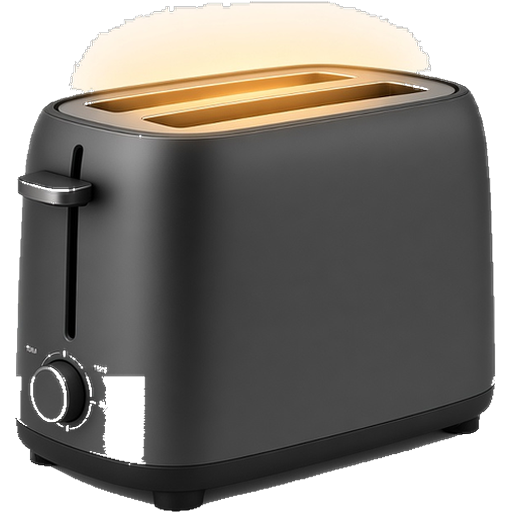
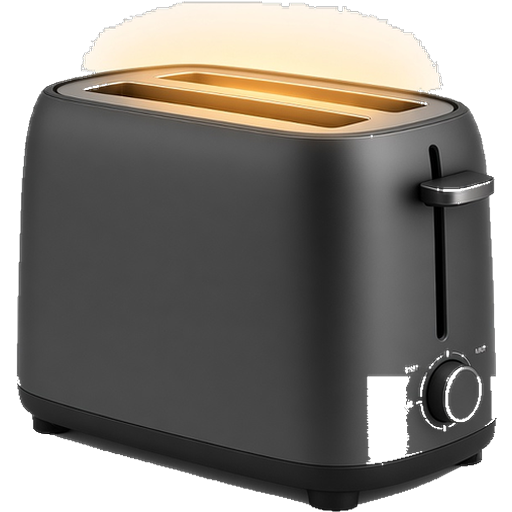
Credit Mark Raphael Sto. Domingo and use com.mrkrphl.buddy.
Public credit is the full name; mrkrphl stays only for the package and GitHub host.

diff --git a/site/privacy.html b/site/privacy.html
@@ -17,7 +17,7 @@
         <h2>Overview</h2>
         <p>
           Buddy (“we”, “our”, or “the app”) is a photo-first calorie companion for iPhone,
-          by mrkrphl. This policy describes what the app handles. It matches the
+          by Mark Raphael Sto. Domingo. This policy describes what the app handles. It matches the
           App Store privacy label: <strong>Data Not Collected</strong>.
         </p>
       </section>

diff --git a/Buddy/Views/SettingsView.swift b/Buddy/Views/SettingsView.swift
@@ -66,7 +66,7 @@ struct SettingsView: View {
                         Link("Support", destination: BuddyLegal.support)
                         Link("Terms", destination: BuddyLegal.terms)
                     } footer: {
-                        Text("by mrkrphl")
+                        Text("Mark Raphael Sto. Domingo")
                     }
                 }
                 .scrollContentBackground(.hidden)

diff --git a/Buddy/Core/PixelRenderer.swift b/Buddy/Core/PixelRenderer.swift
@@ -1,7 +1,7 @@
 import CoreGraphics
 import UIKit
 
-/// Night Folio / Buddy sprite palette (code-only pixel art).
+/// Buddy sprite palette (code-only pixel art).
 /// Indices match sprite matrices in `BuddyGhostPixels`.
 enum BuddyPalette {
     /// 0 transparent · 1 outline · 2 bone · 3 bone light · 4 dim · 5 needle · 6 carrot · 7 leaf · 8 eye

diff --git a/Buddy/Views/RootView.swift b/Buddy/Views/RootView.swift
@@ -134,7 +134,7 @@ struct OnboardingWelcomeView: View {
             .padding(.horizontal, 24)
             .padding(.bottom, 36)
 
-            Text("by mrkrphl")
+            Text("Mark Raphael Sto. Domingo")
                 .font(.caption2)
                 .foregroundStyle(BuddyTheme.dim.opacity(0.7))
                 .padding(.bottom, 12)

diff --git a/site/index.html b/site/index.html
@@ -63,7 +63,7 @@
     </main>
 
     <footer class="site-footer">
-      <span>© mrkrphl</span>
+      <span>© Mark Raphael Sto. Domingo</span>
       <a href="privacy.html">Privacy</a>
       <a href="support.html">Support</a>
       <a href="terms.html">Terms</a>

diff --git a/design/proposals/PROPOSALS.md b/design/proposals/PROPOSALS.md
@@ -5,7 +5,8 @@ Three directions. Same promise, tokens, and tagline. Different marks.
 **Promise:** photo-first food companion — see what you eat.  
 **Tagline:** See what you eat. · **Loop:** Plan & Log  
 **Tokens:** field `#0B0B0C` · bone `#E6E2DA` · dim `#8A8580` · needle `#E2452B`  
-**Studio:** Made by Night Folio (door stays off App Icon)
+**Maker:** Mark Raphael Sto. Domingo  
+**Package:** `com.mrkrphl` (door stays off App Icon)
 
 | | A · Companion | B · Aperture | C · Monogram |
 |---|---|---|---|
@@ -20,7 +21,7 @@ Three directions. Same promise, tokens, and tagline. Different marks.
 
 - Night canvas, not cream  
 - Needle only as accent  
-- No Wick flame, Kindling watercolor, Night Folio door  
+- No Wick flame, Kindling watercolor, or studio door mark on the App Icon  
 - No purple AI glow  
 
 ## Pick

diff --git a/brand.md b/brand.md
@@ -2,7 +2,7 @@
 
 **Status:** LOCKED 2026-09-23 (ghost marshmallow · Plan & Log)  
 **Product:** Buddy  
-**Studio:** Made by Night Folio (door mark stays off the App Icon)
+**Maker:** Mark Raphael Sto. Domingo (package: `com.mrkrphl`)
 
 **Boards**
 - **Canon mascot / App Icon:** [design/buddy-mascot-ghost-marshmallow.png](./design/buddy-mascot-ghost-marshmallow.png)
@@ -46,7 +46,7 @@ A photo-first **food-energy companion** — calories as quiet scoreboard, Buddy 
 Not Halloween scare. Not a living animal critter. He’s a ghost on purpose.
 **Canon face ref:** `design/buddy-tagline-whats-up-bud.png` / brandkit “What’s up, bud?” panel.
 
-**Not:** Night Folio door, Wick flame, Kindling watercolor, realistic 3D mascot.
+**Not:** studio door mark, Wick flame, Kindling watercolor, realistic 3D mascot.
 
 ## Tokens
 

diff --git a/CONTEXT.md b/CONTEXT.md
@@ -16,7 +16,7 @@
 | Win condition | **Delivery** (UX, onboarding, interactions) + companion that **talks** — not feature count |
 | Body mirror | Local only — Buddy gets **hungry / soft / strong** from recent plates. Form PNGs in Assets + pixel fallback; idle float / hunger squash / soft breathe / strong flex. |
 | Mark assets | `BuddyFormBalanced` (canon) · `Hungry` · `Soft` · `Strong` · App Icon = canon ghost |
-| Studio | Made by Night Folio — own product mark |
+| Maker | Mark Raphael Sto. Domingo · package `com.mrkrphl.buddy` |
 
 ## Positioning
 

diff --git a/README.md b/README.md
@@ -2,7 +2,7 @@
 
 Photo-first calorie companion for iPhone — a **marshmallow ghost** who helps you **see what you eat**.
 
-**What’s up, bud?** · **Plan & Log** · Made by Night Folio.
+**What’s up, bud?** · **Plan & Log** · Mark Raphael Sto. Domingo.
 
 ## Stack
 
